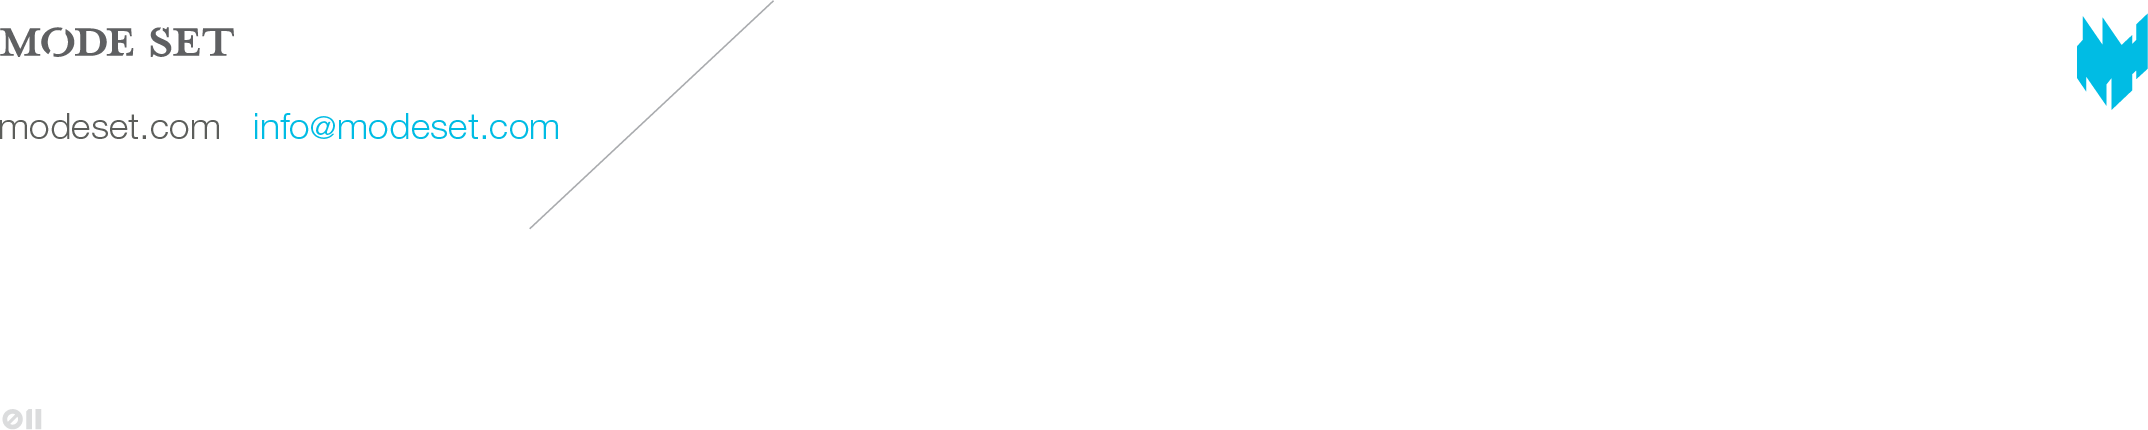
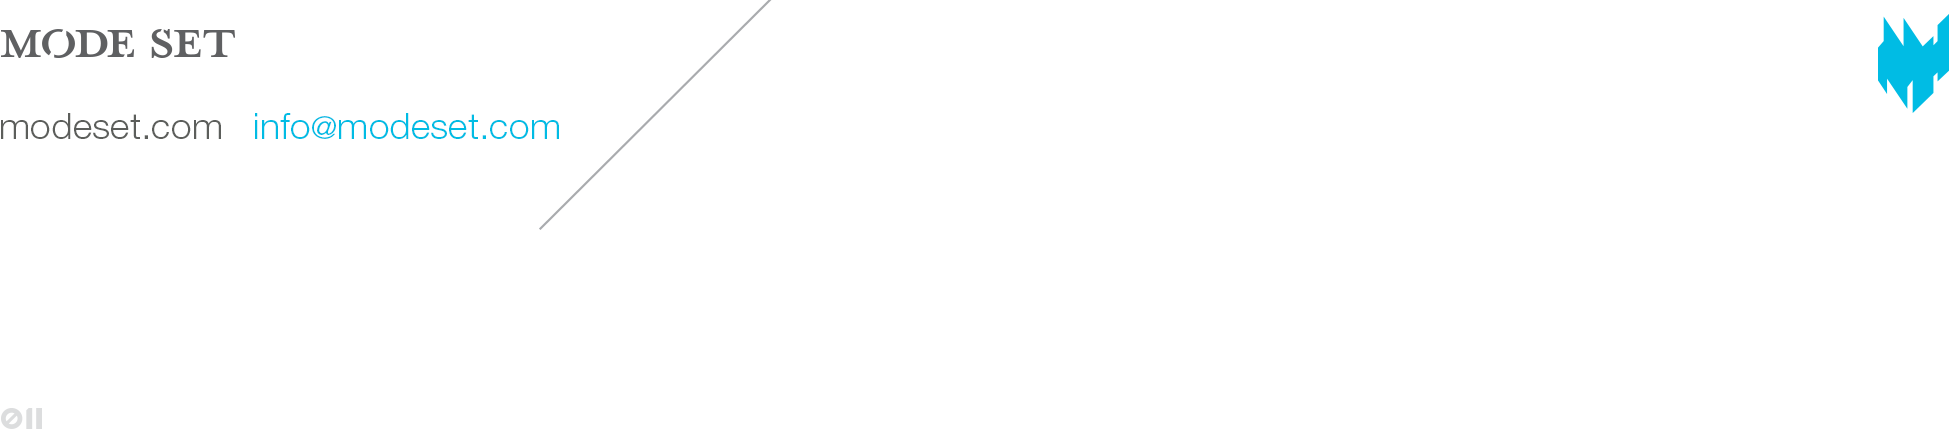
Update masthead image and add block styles

diff --git a/markdown/modeset/style.css b/markdown/modeset/style.css
@@ -152,6 +152,10 @@
   display: block;
   float: right;
 }
+.modeset img[title*="block"] {
+  display: block;
+}
+
 
 .modeset h1,
 .modeset h2,

diff --git a/README.md b/README.md
@@ -9,11 +9,3 @@
 
 All image assets and marks are Copyright (&copy;) Theory Four, LLC // dba Mode Set.
 
-<!-- 
-# TODO
-- Add 011
-- redo logos so they are based off vector objects (psd)
-- Add logos with trademark
-- Redo header
--->
-
